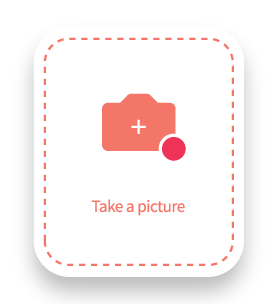
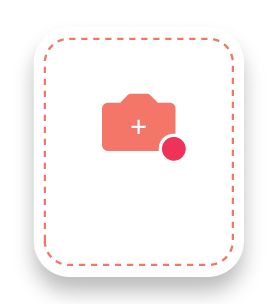
bugsAndChanges

Changed region(s): [[0.3165, 0.6513, 0.6619, 0.7105]]

diff --git a/src/assets/sass/style.css b/src/assets/sass/style.css
@@ -744,6 +744,12 @@ button:hover, button:active, button:focus {
   border: 1px solid #E1E1E1;
   border-radius: 6px;
 }
+.profilesWrpper .progresBaar{
+  position: relative;
+  z-index: 99999;
+  margin-top: 0px;
+  width: 100%;
+}
 
 .profileBox {
   width: 300px;
@@ -760,12 +766,24 @@ button:hover, button:active, button:focus {
   -webkit-box-shadow: 0 3px 6px 0 rgba(0, 0, 0, 0.1), 0 1px 3px 0 rgba(0, 0, 0, 0.08);
           box-shadow: 0 3px 6px 0 rgba(0, 0, 0, 0.1), 0 1px 3px 0 rgba(0, 0, 0, 0.08);
   position: fixed;
+  flex-wrap: wrap;
   z-index: 100;
+  height: 120px;
   left: 0;
   top: 0;
   margin-top: env(safe-area-inset-top);
+  padding-bottom: 5px;
 }
-
+.profileBox .profileWrpper{
+  width: 100%;
+  display: flex;
+  align-items: center;
+}
+.progresBaar .section-title{
+  padding: 0 16px 0 0!important;
+  font-size: 12px;
+  color: #000;
+}
 .profileBox:before {
   background: #ff6454;
   content: '';
@@ -779,7 +797,7 @@ button:hover, button:active, button:focus {
 
 .profileBox .image-wrapper {
   margin-right: 16px;
-  padding: 16px 0;
+  padding: 5px 0 5px;
 }
 
 .profileBox .image-wrapper .imaged {
@@ -866,7 +884,7 @@ button:hover, button:active, button:focus {
           justify-content: center;
   height: 36px;
   right: 10px;
-  top: 50%;
+  top: 40px;
   color: rgba(255, 255, 255, 0.5) !important;
   margin-top: -18px;
 }
@@ -10883,7 +10901,7 @@ body.dark-mode-active .wrrpperSingUp .signUpButtons .signUpGoogle {
   border: 2px solid #ff6454;
   background: transparent;
   border-radius: 5px;
-  line-height: normal;
+  line-height: 45px;
   height: 45px;
   -webkit-appearance: none;
      -moz-appearance: none;
@@ -11420,6 +11438,20 @@ body.dark-mode-active .btnArea .btn_ctnt {
 .profilePhoto .imgContent .imgs {
   position: relative;
 }
+.profilePhoto .imgContent .imgs .ctnt{
+  position: absolute;
+  top: 180px;
+  left: 50%;
+  TRANSFORM: translateX(-50%);
+}
+.profilePhoto .imgContent .imgs .ctnt label{
+  font-size: 14px;
+  font-weight: 600;
+  color: #ff6554;
+  padding: 0;
+  display: block;
+  margin: 0;
+}
 
 .profilePhoto .imgContent .imgs input {
   width: 100%;
@@ -11601,6 +11633,9 @@ body.dark-mode-active .completeProfile .forms_input .formGroup .select select op
   height: 88vh;
 }
 
+.finalSuccess .imgContent .imgs img{
+  width: 150px;
+}
 .finalSuccess .btnArea {
   height: calc(100vh - 88vh);
 }
@@ -11669,7 +11704,9 @@ body.dark-mode-active .completeProfile .forms_input .formGroup .select select op
 .offcanvas {
   z-index: 99999;
 }
-
+.leftSideBar#sidebarPanel .offcanvas-body {
+  padding-top: 120px;
+} 
 #sidebarPanel .offcanvas-body {
   margin-top: 0px;
   padding-top: 80px;
@@ -11909,6 +11946,14 @@ body.dark-mode-active .completeProfile .forms_input .formGroup .select select op
   line-height: 3.9;
   cursor: pointer;
   outline: 0;
+}
+
+.circular-menu .floating-btn .logoMenuImg{
+  width: 56px;
+  height: auto;
+}
+.circular-menu .floating-btn .logoMenuImg img{
+  width: 100%;
 }
 
 .circular-menu.active .floating-btn {
@@ -12323,8 +12368,26 @@ body.dark-mode-active .completeProfile .forms_input .formGroup .select select op
   padding: 0 5px;
 }
 .right_sidebar{
-  background: linear-gradient(131deg, #d5eef2, #ddbdda);
+  background: linear-gradient(131deg, #d5eef2, #ddbdda)!important;
   width: 230px;
+}
+body.dark-mode-active .section-title{
+  color:#000;
+}
+body.dark-mode-active .progress{
+  background: #e9ecef!important;
+}
+.right_sidebar .offcanvas-header{
+  flex-wrap: wrap;
+}
+body.dark-mode-active .right_sidebar .offcanvas-header h5{
+  color: #000;
+}
+body.dark-mode-active .right_sidebar .offcanvas-body .prof-nav a{
+  color: #000;
+}
+.right_sidebar .offcanvas-header .progresBaar{
+  width: 100%;
 }
 .right_sidebar .offcanvas-header h5 a{
   font-weight: 600;
@@ -13728,7 +13791,7 @@ body.dark-mode-active .about p {
   background: transparent;
   position: absolute;
   left: 0px;
-  bottom: 1px;
+  bottom: 0px;
   right: 0;
   background: #ff6454;
   width: 92%;
@@ -13775,7 +13838,7 @@ body.dark-mode-active .faq .faqWrapper .accordion {
 }
 
 body.dark-mode-active .faq .faqWrapper .accordion .accordion-item .accordion-header button.accordion-button {
-  background: #000 !important;
+  background: inherit !important;
   color: #fff;
 }
 
@@ -13813,10 +13876,14 @@ body.dark-mode-active .bookemark_main .bookmarke .bookmaerkWrapper .extraHeader 
 body.dark-mode-active .nav-tabs.lined .nav-item .nav-link {
   color: #fff;
 }
+.gammings .gameWrpper{
+  padding: 0 5%;
+}
 
 .gameWrpper {
   padding: 0 0;
 }
+
 .gameWrpper .grids{
   display: grid;
   grid-template-columns: repeat(3, 1fr);

diff --git a/src/app/_components/sidebars/sidebars.component.html b/src/app/_components/sidebars/sidebars.component.html
@@ -1,18 +1,29 @@
 <!-- sidebars -->
-<div class="offcanvas offcanvas-start" tabindex="-1" id="sidebarPanel">
+<div class="offcanvas offcanvas-start leftSideBar" tabindex="-1" id="sidebarPanel">
     <div class="offcanvas-body">
         <!-- profile box -->
-        <div class="profileBox">
-            <div class="image-wrapper">
-                <img *ngIf="profile_pic == '' || profile_pic == null " src="assets/img/img/avatar_sidebar.webp" alt="image" class="imaged rounded">
-                <img *ngIf="profile_pic != null " src="{{baseUrl}}{{profile_pic_path}}{{profile_pic}}" alt="image" class="imaged rounded">
+        <div class="profilesWrpper">
+            <div class="profileBox">
+                <div class="profileWrpper">
+                    <div class="image-wrapper">
+                        <img *ngIf="profile_pic == '' || profile_pic == null " src="assets/img/img/avatar_sidebar.webp" alt="image" class="imaged rounded">
+                        <img *ngIf="profile_pic != null " src="{{baseUrl}}{{profile_pic_path}}{{profile_pic}}" alt="image" class="imaged rounded">
+                    </div>
+                    <div class="in">
+                        <strong>Hello {{currentUser.userDetails.name}} <!DOCTYPE html></strong>
+                    </div>
+                    <a class="close-sidebar-button" #closebutton (click)="closeSide()" data-bs-dismiss="offcanvas">
+                        <ion-icon name="close"></ion-icon>
+                    </a>
+                </div>
+                <div class="section full progresBaar">
+                    <div class="section-title">Your Profile Completion </div>
+                    <div class="progress">
+                        <div class="progress-bar" role="progressbar" style="width: 25%;" aria-valuenow="25"
+                            aria-valuemin="0" aria-valuemax="100">25%</div>
+                    </div>
+                </div>
             </div>
-            <div class="in">
-                <strong>Hello {{currentUser.userDetails.name}} <!DOCTYPE html></strong>
-            </div>
-            <a class="close-sidebar-button" #closebutton (click)="closeSide()" data-bs-dismiss="offcanvas">
-                <ion-icon name="close"></ion-icon>
-            </a>
         </div>
         <!-- * profile box -->
 
@@ -137,6 +148,13 @@
             <!-- <ion-icon name="close-outline"></ion-icon> -->
             <ion-icon name="close"></ion-icon>
         </a>
+        <div class="section full progresBaar">
+            <div class="section-title">Your Profile Completion </div>
+            <div class="progress">
+                <div class="progress-bar" role="progressbar" style="width: 25%;" aria-valuenow="25"
+                    aria-valuemin="0" aria-valuemax="100">25%</div>
+            </div>
+        </div>
     </div>
     <div class="offcanvas-body">
         

diff --git a/src/app/faq/faq.component.html b/src/app/faq/faq.component.html
@@ -17,7 +17,7 @@
             <div class="accordion" id="accordionCasting">
                 <div class="accordion-item" *ngFor="let item of casting_calls; let i = index">
                     <h2 class="accordion-header">
-                        <button class="accordion-button" type="button" data-bs-toggle="collapse"
+                        <button class="accordion-button" [ngClass]="{ 'collapsed': i != 0 }" type="button" data-bs-toggle="collapse"
                             [attr.data-bs-target]="'#accordioncc'+i" [innerHTML]="item.title"></button>
                     </h2>
                     <div [id]="'accordioncc'+i" class="accordion-collapse collapse" [ngClass]="{ 'show': i == 0 }"
@@ -43,7 +43,7 @@
                 <div class="accordion" id="bts">
                     <div class="accordion-item" *ngFor="let itemb of bts; let i = index">
                         <h2 class="accordion-header">
-                            <button class="accordion-button" type="button" data-bs-toggle="collapse"
+                            <button class="accordion-button" [ngClass]="{ 'collapsed': i != 0 }" type="button" data-bs-toggle="collapse"
                                 [attr.data-bs-target]="'#accordionbts'+i" [innerHTML]="itemb.title"></button>
                         </h2>
                         <div [id]="'accordionbts'+i" class="accordion-collapse collapse" [ngClass]="{ 'show': i == 0 }"
@@ -70,7 +70,7 @@
                 <div class="accordion" id="training">
                     <div class="accordion-item" *ngFor="let itemt of training; let i = index">
                         <h2 class="accordion-header">
-                            <button class="accordion-button" type="button" data-bs-toggle="collapse"
+                            <button class="accordion-button" [ngClass]="{ 'collapsed': i != 0 }" type="button" data-bs-toggle="collapse"
                                 [attr.data-bs-target]="'#accordiont'+i" [innerHTML]="itemt.title"></button>
                         </h2>
                         <div [id]="'accordiont'+i" class="accordion-collapse collapse" [ngClass]="{ 'show': i == 0 }"

diff --git a/src/app/splash/splash.component.ts b/src/app/splash/splash.component.ts
@@ -11,7 +11,7 @@ import { AuthenticationService } from '../_service/authentication.service';
 export class SplashComponent implements OnInit {
   readytoredirect : boolean = false;
   slides = [
-    {"no": 1,class1:"first",class2:"casting-content",class3:"slide-btn1",logo: "../../assets/img/white_logo.webp",img: "../../assets/img/img/GirlImg.webp",title:"Casting Call",des:"Get updates on the most recent casting calls of features films, TV commercials and other meduims. Resgister NOW!", skipBtn:"Skip"},
+    {"no": 1,class1:"first",class2:"casting-content",class3:"slide-btn1",logo: "../../assets/img/white_logo.webp",img: "../../assets/img/img/GirlImg.webp",title:"Casting Call",des:"Get updates on the most recent casting calls of features films, TV commercials and other medium. Resgister NOW!", skipBtn:"Skip"},
     {"no": 2,class1:"second",class2:"traning-content",class3:"slide-btn2",logo: "../../assets/img/white_logo.webp",img: "../../assets/img/img/GirlImg.webp",title:"Training",des:"Don't stop growing. Never limit your acting abilities. Our Acting training will provide you the challenge that you as an actor desperately require", skipBtn:"Skip"},
     {"no": 3,class1:"third",class2:"event-content",class3:"slide-btn3",logo: "../../assets/img/white_logo.webp",img: "../../assets/img/img/GirlImg.webp",title:"Workshop",des:"Be a part of the most exciting events at Indian Cinema just by signing-up on your smartphone.", skipBtn:"Skip"},
     {"no": 4,class1:"fourth",class2:"bTs-content",class3:"slide-btn4",logo: "../../assets/img/white_logo.webp",img: "../../assets/img/img/GirlImg.webp",title:"BTS",des:"Get the most of what's happening 'Behind The Screen'. Anywhere. Everywhere.",link:"/signin-signup", skipBtn:"Next"}

diff --git a/src/app/complete-profile/upload-images/upload-images.component.html b/src/app/complete-profile/upload-images/upload-images.component.html
@@ -1,10 +1,13 @@
 <div class="wrrpperRegisterForm successs profilePhoto upload_img_video">
-    <app-top-header-bt [back]="back_link" [title]="component_title"></app-top-header-bt>
+    <div class="heading sticky">
+      <p>Complete Your Profile</p>
+    </div>
     <form [formGroup]="form" (ngSubmit)="submit()">
     <div class="imgContent">
         <div class="imgs">
             <input type="file" formControlName="files" (change)="fileChangeEvent($event)" id="files" multiple accept="image/jpeg, image/png, image/jpg,">
             <img src="assets/img/img/photoUpload.webp" alt="" for="photo">
+            <div class="ctnt"><label>Take a picture</label></div>
         </div>
         <div class="ctnt">
             <p>Take a photo or choose From <br>your library</p>

diff --git a/src/app/help/help.component.html b/src/app/help/help.component.html
@@ -6,7 +6,7 @@
                 <div class="accordion" id="accordionCasting">
                     <div class="accordion-item" *ngFor="let item of datas; let i = index">
                         <h2 class="accordion-header">
-                            <button class="accordion-button" type="button" data-bs-toggle="collapse"
+                            <button class="accordion-button" [ngClass]="{ 'collapsed': i != 0 }" type="button" data-bs-toggle="collapse"
                                 [attr.data-bs-target]="'#accordioncc'+i" [innerHTML]="item.title"></button>
                         </h2>
                         <div [id]="'accordioncc'+i" class="accordion-collapse collapse" [ngClass]="{ 'show': i == 0 }"

diff --git a/src/app/games/games.component.html b/src/app/games/games.component.html
@@ -1,5 +1,5 @@
     <!-- <app-footer></app-footer> -->
-<div class="main casting_inner sidePaading0">
+<div class="main casting_inner sidePaading0 gammings">
     <app-sub-header [back]="back_link"></app-sub-header>    
     <div class="main_wrppers gameWrpper">
         <div class="gamesArea">
@@ -9,7 +9,7 @@
             </div>
         </div>
         <div class="gameArea" (click)="show()">
-            <img src="assets/img/img/gamesImg.webp" alt="">
+            <img src="assets/img/img/gameImg.webp" alt="">
             <div class="gamesBtmTxtArrow">
                 <div class="gmeImgContnt">
                     <a>

diff --git a/src/app/_components/footer/footer.component.html b/src/app/_components/footer/footer.component.html
@@ -4,8 +4,8 @@
 
         <a class="floating-btn" onclick="document.getElementById('circularMenu').classList.toggle('active');">
           <div class="logoMenuImg">
-            <img src="assets/img/img/mneuIcon.webp" class="logo__Menu" alt="">
-            <!-- <img src="assets/img/img/menuCross.webp"  alt=""> -->
+            <!-- <img src="assets/img/img/mneuIcon.webp" class="logo__Menu" alt=""> -->
+            <img src="assets/img/img/mccc_logos.svg" class="logo__Menu" alt="">
             <ion-icon name="close" class="cross__Menu"></ion-icon>
           </div>
         </a>

diff --git a/src/app/complete-profile/upload-video/upload-video.component.html b/src/app/complete-profile/upload-video/upload-video.component.html
@@ -4,7 +4,8 @@
     <div class="imgContent">
         <div class="imgs">
             <input type="file" formControlName="files" (change)="onFileChange($event)" id="files" accept="video/mp4">
-            <img src="assets/img/img/takeVideo.webp" alt="" for="photo">
+            <img src="assets/img/img/photoUpload.webp" alt="" for="photo">
+            <div class="ctnt"><label>Take a video</label></div>
         </div>
         <div class="ctnt">
             <p>Take a Video or choose From <br>your library</p>

diff --git a/src/app/complete-profile/final-success/final-success.component.html b/src/app/complete-profile/final-success/final-success.component.html
@@ -2,7 +2,7 @@
     <!-- <app-top-header-bt [back]="back_link" [title]="component_title"></app-top-header-bt> -->
     <div class="imgContent">
         <div class="imgs">
-            <img src="assets/img/img/succes.webp" alt="">
+            <img src="assets/img/img/success.webp" alt="">
         </div>
         <div class="ctnt">
             <h4>Awesome!</h4>
